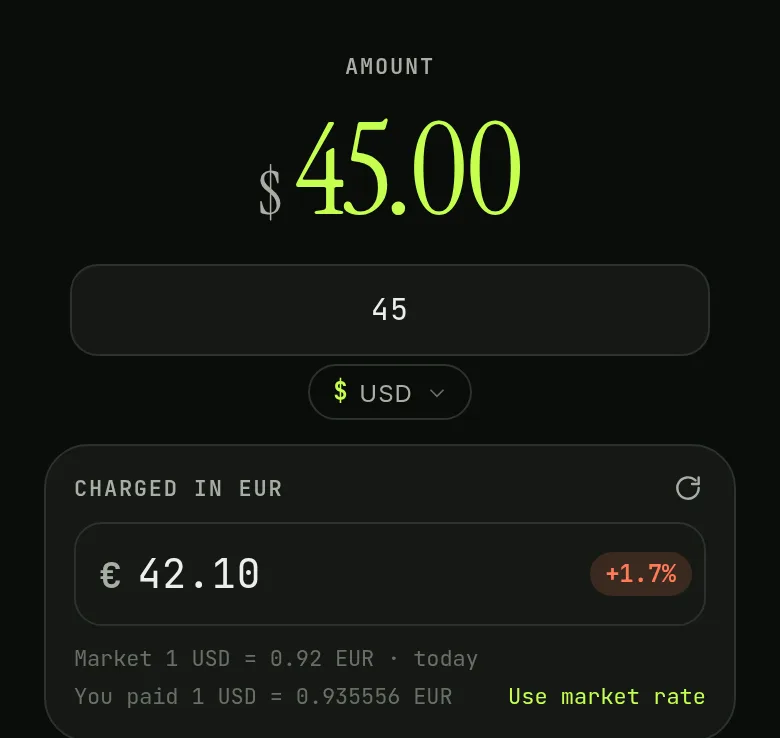
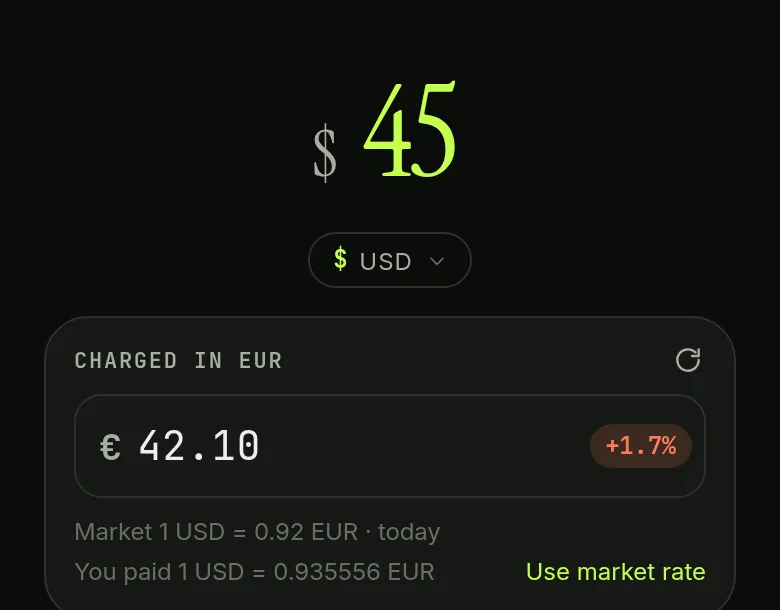
chore(landing): refresh app screenshots for the new expense form

diff --git a/src/routes/split-trip-expenses/+page.svelte b/src/routes/split-trip-expenses/+page.svelte
@@ -105,7 +105,7 @@
 	<Figure
 		src="/landing/currency.webp"
 		width={780}
-		height={738}
+		height={610}
 		alt="A $45 expense where the bank charged €42.10, 1.7% more than the market rate of 0.92"
 		caption="$45 for museum tickets. The bank took €42.10, 1.7% over the market rate."
 	/>

diff --git a/src/routes/splitwise-alternative/+page.svelte b/src/routes/splitwise-alternative/+page.svelte
@@ -66,7 +66,7 @@
 	<Figure
 		src="/landing/currency.webp"
 		width={780}
-		height={738}
+		height={610}
 		alt="A $45 expense where the bank charged €42.10, 1.7% more than the market rate of 0.92"
 		caption="A $45 expense, with the €42.10 the bank actually charged."
 	/>
